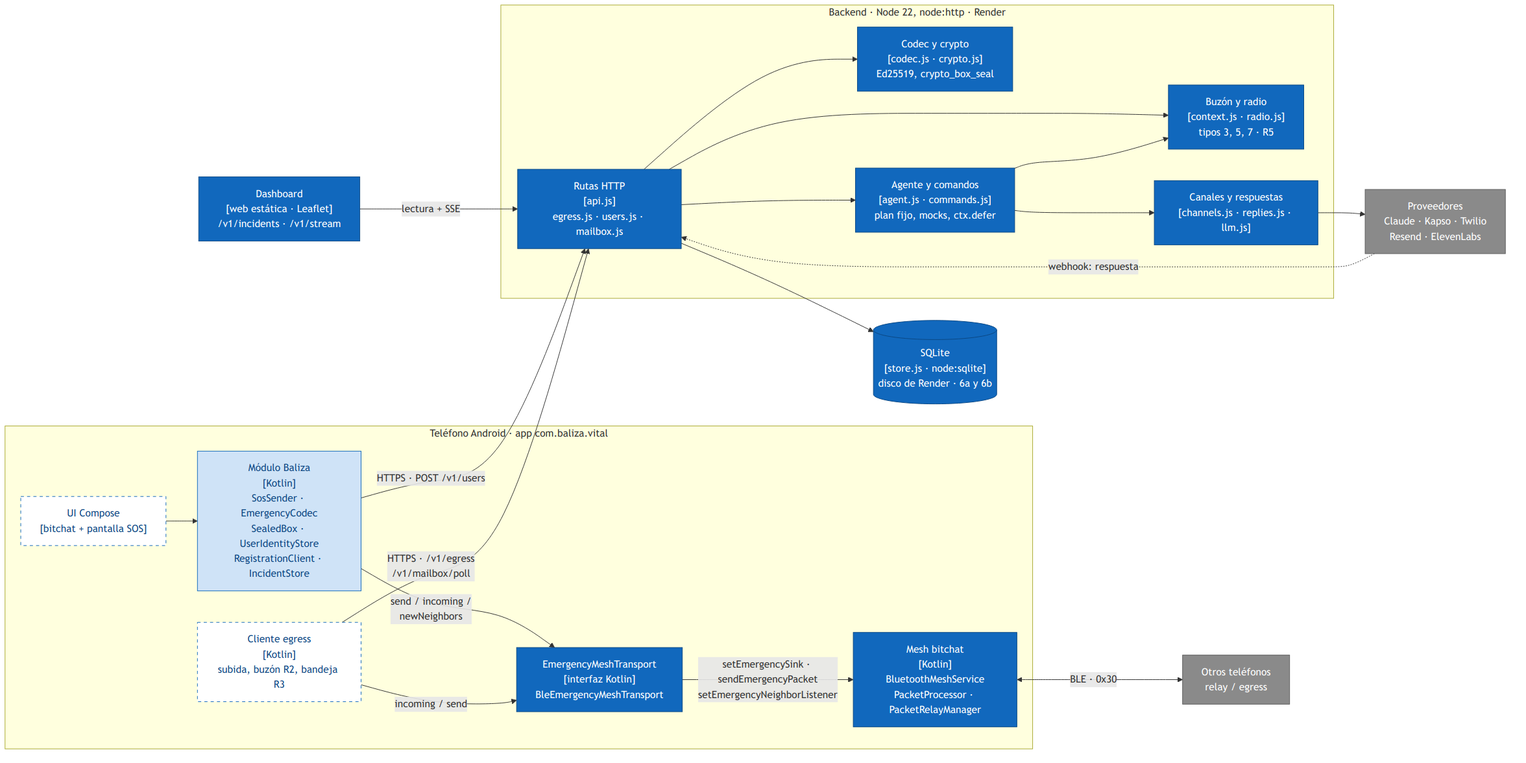
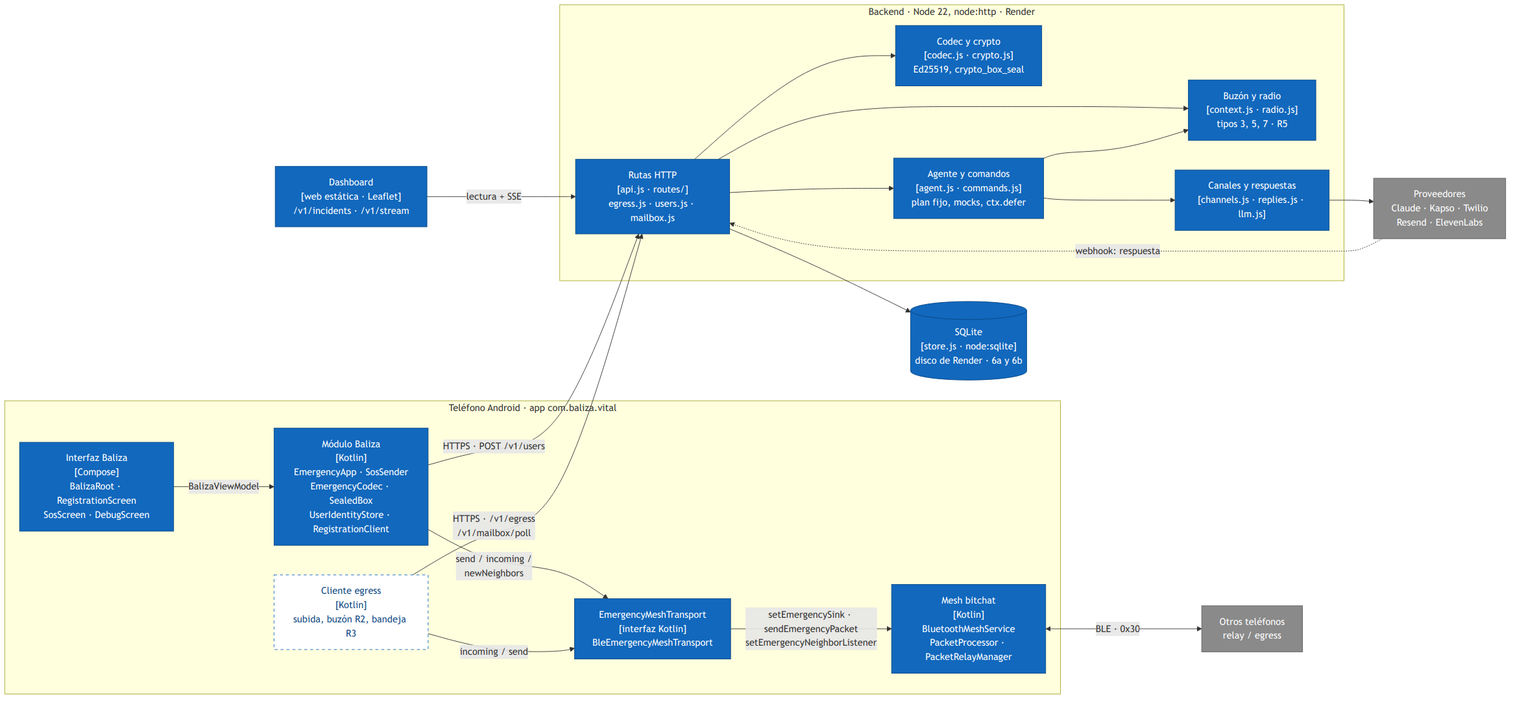
Sync architecture diagrams with main (6f254e6)
Android now has the Baliza interface and SosSender wired through
EmergencyApp; the backend routes moved to routes/ without behavior or
schema changes. Diagrams 1, 2, 3, 7b, 8b and 10 reflect that; the egress
client is still the missing piece.

Claude-Session: https://claude.ai/code/session_01XdXPhFtcDCqmwmPepN8a9W

Changed region(s): [[0.0, 0.0, 0.9932, 0.9991], [0.5276, 0.0, 0.6828, 0.1561], [0.7759, 0.843, 0.869, 0.9366]]

diff --git a/docs/diagramas/02-c4-contenedores.md b/docs/diagramas/02-c4-contenedores.md
@@ -4,30 +4,28 @@ Las piezas desplegables de Baliza Vital y cómo se hablan: la app Android en cap
 `EmergencyMeshTransport`, mesh de bitchat), el backend en módulos, la base de datos y el dashboard.
 Muestra qué existe ya en el código y qué está propuesto.
 
-Estado: **propuesto**. Sincronizado con `431db2d`. Existen el backend (`backend/src/`), el panel
-(`dashboard/`) y, en Android, el transporte, el módulo Baliza (`codec`, `crypto`, `identity`,
-`registration`, `sos`) y los ganchos de bitchat. Faltan la UI SOS, el cliente egress y el cableado en la
-app.
+Estado: **propuesto**. Sincronizado con `6f254e6`. Existen el backend (`backend/src/`), el panel
+(`dashboard/`) y, en Android, la interfaz Baliza (`com.baliza.emergency.ui`), el módulo Baliza cableado en
+`EmergencyApp`, el transporte y los ganchos de bitchat. **Falta el cliente egress.**
 
 ```mermaid
 flowchart LR
   classDef exists fill:#1168bd,stroke:#0b4884,color:#fff
-  classDef partial fill:#cfe3f7,stroke:#1168bd,color:#0b4884
   classDef proposed fill:#fff,stroke:#1168bd,color:#0b4884,stroke-dasharray:5 5
   classDef ext fill:#8a8a8a,stroke:#5e5e5e,color:#fff
 
   otros["Otros teléfonos<br/>relay / egress"]:::ext
 
   subgraph phone["Teléfono Android · app com.baliza.vital"]
-    ui["UI Compose<br/>[bitchat + pantalla SOS]"]:::proposed
-    sos["Módulo Baliza<br/>[Kotlin]<br/>SosSender · EmergencyCodec<br/>SealedBox · UserIdentityStore<br/>RegistrationClient · IncidentStore"]:::partial
+    ui["Interfaz Baliza<br/>[Compose]<br/>BalizaRoot · RegistrationScreen<br/>SosScreen · DebugScreen"]:::exists
+    sos["Módulo Baliza<br/>[Kotlin]<br/>EmergencyApp · SosSender<br/>EmergencyCodec · SealedBox<br/>UserIdentityStore · RegistrationClient"]:::exists
     egr["Cliente egress<br/>[Kotlin]<br/>subida, buzón R2, bandeja R3"]:::proposed
     emt["EmergencyMeshTransport<br/>[interfaz Kotlin]<br/>BleEmergencyMeshTransport"]:::exists
     mesh["Mesh bitchat<br/>[Kotlin]<br/>BluetoothMeshService<br/>PacketProcessor · PacketRelayManager"]:::exists
   end
 
   subgraph cloud["Backend · Node 22, node:http · Render"]
-    api["Rutas HTTP<br/>[api.js]<br/>egress.js · users.js · mailbox.js"]:::exists
+    api["Rutas HTTP<br/>[api.js · routes/]<br/>egress.js · users.js · mailbox.js"]:::exists
     crypto["Codec y crypto<br/>[codec.js · crypto.js]<br/>Ed25519, crypto_box_seal"]:::exists
     ag["Agente y comandos<br/>[agent.js · commands.js]<br/>plan fijo, mocks, ctx.defer"]:::exists
     mb["Buzón y radio<br/>[context.js · radio.js]<br/>tipos 3, 5, 7 · R5"]:::exists
@@ -38,7 +36,7 @@ flowchart LR
   dash["Dashboard<br/>[web estática · Leaflet]<br/>/v1/incidents · /v1/stream"]:::exists
   prov["Proveedores<br/>Claude · Kapso · Twilio<br/>Resend · ElevenLabs"]:::ext
 
-  ui --> sos
+  ui -->|"BalizaViewModel"| sos
   sos -->|"send / incoming /<br/>newNeighbors"| emt
   sos -->|"HTTPS · POST /v1/users"| api
   egr -->|"incoming / send"| emt
@@ -56,42 +54,49 @@ flowchart LR
   dash -->|"lectura + SSE"| api
 ```
 
-Leyenda: relleno azul = existe y se usa; azul claro = existe pero sin conectar a la app; borde
-punteado = propuesto. Todos los módulos del backend usan `store.js`; para no cruzar flechas, solo se
+Leyenda: relleno azul = existe; borde punteado = propuesto. Todos los módulos del backend usan `store.js`; para no cruzar flechas, solo se
 dibuja una hacia la base.
 
 ## Capas de la app
 
 | Capa | Paquete / clase | Responsabilidad | Estado |
 |------|-----------------|-----------------|--------|
-| UI | bitchat Compose + pantalla SOS | Categoría, severidad, texto, estados R4, CMD | Propuesto |
-| Módulo Baliza | `com.baliza.emergency.{codec,crypto,identity,registration,sos}` | `EmergencyCodec` (§3, firma `BALIZA-V1`), `SealedBox` (compatible con libsodium), `UserIdentityStore` (llaves propias y del servidor, `SecurePrefs`), `RegistrationClient` (`POST /v1/users`), `SosSender` (R1, R4, ACK), `PrefsIncidentStore` (sobrevive a la muerte del proceso) | **Existe, sin conectar**. Faltan UPDATE/baliza R6, MSG_OUT, CMD, dictado y lectura en voz alta |
+| UI | `com.baliza.emergency.ui`: `BalizaRoot`, `RegistrationScreen`, `SosScreen`, `DebugScreen`, `BalizaViewModel` | Registro con contactos, botón SOS (categoría, gravedad, texto público ≤ 60 B, nota cifrada, a quién avisar), estado R4 y cancelar. En builds de depuración: URL del servidor, paquete de prueba, paquetes oídos, borrar registro y acceso al chat de bitchat | **Existe**. Reemplaza al chat de bitchat como pantalla de inicio (`MainActivity`). Faltan MSG_IN, CMD, dictado y lectura en voz alta |
+| Pila de emergencia | `com.baliza.emergency.app`: `EmergencyApp` (una por proceso), `ContactStore`, `ApiSettings`, `SosLocationProvider` | Arma transporte, `SosSender` y registro; guarda los contactos cifrados; URL del backend (de la build, `BALIZA_API_URL`, o cambiada en depuración); ubicación para el SOS | **Existe** |
+| Módulo Baliza | `com.baliza.emergency.{codec,crypto,identity,registration,sos}` | `EmergencyCodec` (§3, firma `BALIZA-V1`), `SealedBox` (compatible con libsodium), `UserIdentityStore` (llaves propias y del servidor, `SecurePrefs`), `RegistrationClient` (`POST /v1/users`), `SosSender` (R1, R4, ACK), `PrefsIncidentStore` (sobrevive a la muerte del proceso) | **Existe y se usa**. Faltan UPDATE/baliza R6, MSG_OUT y CMD |
 | Cliente egress | (sin código) | `POST /v1/egress`, `POST /v1/mailbox/poll` (R2), bandeja de salida (R3), presencia e inbox (R5) | Propuesto |
-| Transporte | `EmergencyMeshTransport`, `BleEmergencyMeshTransport` | `send(payload, ttl): SendResult`, `incoming`, `newNeighbors` | **Existe** |
+| Transporte | `EmergencyMeshTransport`, `BleEmergencyMeshTransport` | `send(payload, ttl): SendResult`, `incoming`, `newNeighbors`; `rebind()` si `MeshServiceHolder` cambia la instancia del mesh | **Existe** |
 | Mesh | `BluetoothMeshService.setEmergencySink` / `sendEmergencyPacket` / `setEmergencyNeighborListener`, `PacketProcessor` (rama `EMERGENCY`), `PacketRelayManager` | Sobre v1, BROADCAST, firma del sobre, relevo con TTL − 1, aviso de vecino nuevo | **Existe** |
 
 ## Módulos del backend
 
 | Módulo | Archivo | Rutas o papel |
 |--------|---------|---------------|
-| Rutas | `api.js`, `http.js`, `server.js` | Ensamblado, CORS, tokens de panel y admin |
-| Registro | `users.js` | `POST /v1/users`, `PUT /v1/users/{id}/contacts` |
-| Egress | `egress.js` | `POST /v1/egress` (validación, idempotencia, ACK síncrono) |
-| Buzón | `mailbox.js`, `context.js` | `POST /v1/mailbox/poll`; `queueAck`, `queueMsgIn`, `queueCmdResult` |
-| Radio (R5) | `radio.js` | `POST /v1/egress/presence`, `GET /v1/egress/inbox`, repetición cada 60 s |
+| Ensamblado | `api.js`, `http.js`, `server.js` | Contexto y servidor HTTP, CORS |
+| Rutas | `routes/{index,helpers,users,mesh,replies,admin,dashboard}.js` | Tabla de rutas por tema; tokens de panel y admin en `helpers.js` |
+| Registro | `users.js` (rutas en `routes/users.js`) | `POST /v1/users`, `PUT /v1/users/{id}/contacts` |
+| Egress | `egress.js` (rutas en `routes/mesh.js`) | `POST /v1/egress` (validación, idempotencia, ACK síncrono) |
+| Buzón | `mailbox.js`, `context.js` (rutas en `routes/mesh.js`) | `POST /v1/mailbox/poll`; `queueAck`, `queueMsgIn`, `queueCmdResult` |
+| Radio (R5) | `radio.js` (rutas en `routes/mesh.js`) | `POST /v1/egress/presence`, `GET /v1/egress/inbox`, repetición cada 60 s |
 | Agente | `agent.js`, `llm.js`, `prompts/alert-writer.txt` | `registrar_incidente`, `avisar_contactos`, `consultar_alertas`, `runSosAgent` |
 | Comandos | `commands.js` | CMD → CMD_RESULT con mocks y banderas |
-| Respuestas | `replies.js`, `tokens.js`, `reply-page.html` | `/r/{token}`, `/v1/replies`, `/v1/webhooks/whatsapp`, `/v1/webhooks/sms` |
+| Respuestas | `replies.js`, `tokens.js`, `reply-page.html` (rutas en `routes/replies.js`) | `/r/{token}`, `/v1/replies`, `/v1/webhooks/whatsapp`, `/v1/webhooks/sms` |
+| Admin | `routes/admin.js` | `POST /v1/admin/contacts/verify`, `POST /v1/dev/simulate-reply` |
 | Canales | `channels.js` | WhatsApp (Kapso), SMS (Twilio), correo (Resend), voz (ElevenLabs) o consola |
-| Panel | `api.js` | `GET /v1/incidents`, `/v1/incidents/{sender}/{incident}`, `/v1/events`, `/v1/stream` (SSE) |
+| Panel | `routes/dashboard.js` | `GET /v1/incidents`, `/v1/incidents/{sender}/{incident}`, `/v1/events`, `/v1/stream` (SSE) |
 | Datos | `store.js` | Todo el SQL (diagramas 6a y 6b) |
 
 ## Supuestos / decisiones abiertas
 
-- **Cableado pendiente en Android.** Nadie llama todavía a `BleEmergencyMeshTransport.over(mesh)` ni crea
-  un `SosSender`: el módulo Baliza solo corre en pruebas. Es lo que falta para la Fase 2 en el teléfono.
-- **No hay cliente egress.** Ningún código del teléfono llama a `/v1/egress` ni a `/v1/mailbox/poll`. El
-  backend se prueba con `scripts/post-vector.mjs`.
+- **No hay cliente egress: es lo que falta para la Fase 2 en el teléfono.** El SOS ya sale de A por el
+  mesh, pero ningún código del teléfono llama a `/v1/egress` ni a `/v1/mailbox/poll`, así que nada llega
+  al backend desde el mesh. El backend se prueba con `scripts/post-vector.mjs`.
+- **`EmergencyApp` vive fuera de las pantallas.** Una instancia por proceso arma la pila al arrancar
+  (fuera del hilo principal, por el keystore) y la UI solo la observa, para que los reintentos R1 no
+  dependan de una pantalla abierta. Cada 5 s comprueba si `MeshServiceHolder` cambió el mesh y, si es
+  así, vuelve a enganchar el transporte (`rebind()`).
+- **El chat de bitchat sigue debajo.** Su motor de mesh corre igual; la pantalla de chat solo se abre
+  desde el panel de depuración.
 - **El agente no es un worker aparte.** `ctx.defer` corre en el mismo proceso, después de responder al
   egress. Si el proceso se reinicia, el aviso en curso se pierde (el `SIGTERM` espera 10 s).
 - **Una sola instancia.** El límite de tasa, la cola diferida y el bus del SSE viven en memoria, y el

diff --git a/docs/diagramas/README.md b/docs/diagramas/README.md
@@ -28,10 +28,13 @@ Los diagramas que pasaban de ~15 elementos se dividieron en partes (a, b, c).
 | 9c | [Paquete: sobre de bitchat](09c-paquete-sobre-bitchat.md) | propuesto (calcado del código) | [09c](img/09c-paquete-sobre-bitchat.png) |
 | 10 | [Despliegue del demo](10-despliegue-demo.md) | propuesto | [10](img/10-despliegue-demo.png) |
 
-Los "propuesto" a secas mezclan código real (backend, `SosSender`) con piezas que no existen todavía
-(cliente egress, UI, UPDATE, MSG_OUT, CMD en el teléfono). Cada diagrama marca cuál es cuál.
+Los "propuesto" a secas mezclan código real (backend, interfaz y `SosSender` en el teléfono) con piezas
+que no existen todavía (cliente egress, UPDATE, MSG_OUT, CMD en el teléfono). Cada diagrama marca cuál es
+cuál.
 
-Última sincronización: `431db2d` (`main`, 2026-10-24). La anterior fue `8e2b1e1`.
+Última sincronización: `6f254e6` (`main`, 2026-10-24). La anterior fue `431db2d`. Desde entonces: la
+interfaz Baliza en Android con `SosSender` cableado (`EmergencyApp`), y el backend partido en `routes/`
+sin cambios de comportamiento ni de esquema.
 
 ## Decisiones
 
@@ -61,7 +64,7 @@ Los "propuesto" a secas mezclan código real (backend, `SosSender`) con piezas q
 | 9 | API del dashboard fuera del contrato | 2 | Resuelto en código | `GET /v1/incidents`, `/v1/incidents/{sender}/{incident}`, `/v1/events`, SSE `/v1/stream`; solo lectura, sin `PATCH`. Falta pasarla al contrato |
 | 10 | Por dónde responde el contacto | 4 | Resuelto en código | Webhook de Kapso, `/r/{token}`, `/v1/replies`, webhook SMS de Twilio |
 | 11 | ¿El `CMD` pasa por el LLM? | 5 | Resuelto en código | No: despacho en código con esquema estricto; el LLM solo redacta avisos |
-| 12 | "Laptop como egress de respaldo": una laptop no corre bitchat | 10 | **Abierto** | La laptop respalda red (hotspot) y backend (copia local con las mismas llaves); un 4.º teléfono si se quiere un egress real |
+| 12 | "Laptop como egress de respaldo": una laptop no corre bitchat | 10 | **Abierto** | La laptop respalda red (hotspot) y backend (copia local con las mismas llaves; el teléfono ya puede apuntarle desde `DebugScreen`); un 4.º teléfono si se quiere un egress real |
 | 13 | Margen del frame: §2 dice "margen de 6 B" y §2.1 suma 512 exactos. Con compresión, 418 B pueden pasar a 419 B y el sobre a 513 B (se fragmenta) | 9c | **Abierto** | Bajar el límite del paquete interno a 412 B, o aceptar la fragmentación y agregar ese borde a `EmergencyPacketTest` |
 | 14 | Base de datos: el encargo pedía Postgres + PostGIS (y `reparto.md` lo proponía); el código usa SQLite (`node:sqlite`) en el disco de Render, sin PostGIS | 2, 6a, 6b, 10 | **Abierto** | SQLite para el demo; Postgres solo si hace falta más de una réplica (`store.js` es el único punto de cambio). Los ER muestran lo real |
 | 15 | WhatsApp: el bit «sms» de `channels` sale por WhatsApp (Kapso) si hay credenciales; el contrato (§3.3, §6) solo habla de SMS | 1, 4 | **Abierto** | Documentar en §6 que «sms» significa "mensaje al teléfono del contacto" (WhatsApp o SMS) |
@@ -70,8 +73,10 @@ Los "propuesto" a secas mezclan código real (backend, `SosSender`) con piezas q
 - La ubicación exacta viaja **en claro** en la cabecera y la ve cualquier nodo del mesh (9b).
 - Un egress no puede verificar la firma del usuario (no tiene la llave pública) y sube todo lo que
   decodifica; filtra el backend (7b).
-- El módulo Baliza de Android **no está conectado a la app**: nadie llama a
-  `BleEmergencyMeshTransport.over` ni crea un `SosSender`. Y no hay cliente egress (2).
+- **No hay cliente egress en Android** (2, 3, 10). El SOS ya sale de A y salta por el mesh, pero no
+  llega al backend: es la pieza que falta para que el demo A → B → C → backend funcione.
+- "Cancelar aviso" solo detiene los reintentos en el teléfono; el incidente queda `open` en el panel
+  hasta que exista el UPDATE con `severity = 0` (8b).
 - La nota del SOS queda **en claro** en la base del backend, sin plazo de retención (6a).
 - Con canales reales, solo reciben avisos los contactos `verified` (10).
 
@@ -95,9 +100,9 @@ done
 
 Cuando se pida "sincroniza": `git fetch`, y `git log` y `git diff` desde la última sincronización (arriba)
 hasta `main`, sobre:
-- Android: `apps/android/.../com/baliza/**`, `PacketProcessor`, `PacketRelayManager`, `SecurityManager`,
-  `BluetoothMeshService`, `BinaryProtocol`;
-- backend: `backend/src/**` (sobre todo `store.js`, `egress.js`, `agent.js`, `context.js`, `api.js`) y
+- Android: `apps/android/.../com/baliza/**` (incluye `app/` y `ui/`), `MainActivity`, `PacketProcessor`,
+  `PacketRelayManager`, `SecurityManager`, `BluetoothMeshService`, `BinaryProtocol`;
+- backend: `backend/src/**` (sobre todo `store.js`, `egress.js`, `agent.js`, `context.js`, `routes/`) y
   `backend/README.md`;
 - panel: `dashboard/app.js`;
 - despliegue: `render.yaml`;
@@ -108,5 +113,5 @@ sincronización. Qué mirar según el cambio:
 - bitchat: 2, 3, 7a y 9c;
 - `store.js`: 6a y 6b;
 - `egress.js`, `agent.js`, `commands.js`: 3, 4, 5 y 8a;
-- `SosSender`: 3, 7b y 8b;
+- `SosSender`, `EmergencyApp`, `ui/`: 2, 3, 7b y 8b;
 - `render.yaml`: 10.

diff --git a/docs/diagramas/10-despliegue-demo.md b/docs/diagramas/10-despliegue-demo.md
@@ -4,7 +4,7 @@ Dónde corre cada pieza el día del demo: tres teléfonos Android (A sin interne
 separados para forzar un salto, una laptop de respaldo, el backend y el panel en Render, y el panel
 proyectado. Los avisos llegan a teléfonos del equipo (datos sintéticos).
 
-Estado: **propuesto**, sincronizado con `431db2d`. El papel de la laptop está **por confirmar**.
+Estado: **propuesto**, sincronizado con `6f254e6`. El papel de la laptop está **por confirmar**.
 Fuentes: `render.yaml`, `backend/README.md`, `dashboard/README.md`, `fases.md` y `reparto.md`.
 
 ```mermaid
@@ -53,7 +53,7 @@ flowchart LR
 |-------|---------------|
 | A | Modo avión con Bluetooth encendido; ubicación activada (GPS sin red); registrado antes con internet (`POST /v1/users`) para tener las llaves del servidor |
 | B | Sin SIM o sin datos, Bluetooth encendido, app abierta; en el medio, a la vista de A y de C |
-| C | Datos móviles, "colaborar como egress" activo; lejos de A para que el salto pase por B |
+| C | Datos móviles, "colaborar como egress" activo (**no existe todavía**); lejos de A para que el salto pase por B |
 | Laptop | Panel abierto con `?api=https://<backend>` y `DASHBOARD_TOKEN`; hotspot listo; copia local del backend lista para arrancar |
 | Render | `BALIZA_SIGN_SEED_HEX` y `BALIZA_SEAL_SK_HEX` fijados. Si se regeneran las llaves, los teléfonos registrados dejan de entender al servidor |
 | Render | `ADMIN_TOKEN` (para verificar contactos y simular respuestas) y `DASHBOARD_TOKEN` definidos |
@@ -68,7 +68,8 @@ flowchart LR
   dos niveles, sin código extra:
   1. **Red:** comparte internet a C (hotspot) si falla el 4G del lugar.
   2. **Backend:** corre `npm start` en `backend/` y el panel con `python3 -m http.server`, y C apunta a
-     ella si Render falla. Ojo: la copia local tiene **otras llaves** salvo que use las mismas
+     ella si Render falla. Ya se puede sin recompilar: en builds de depuración, `DebugScreen` cambia la
+     URL del servidor (`ApiSettings`). Ojo: la copia local tiene **otras llaves** salvo que use las mismas
      `BALIZA_SIGN_SEED_HEX` y `BALIZA_SEAL_SK_HEX`, y otros usuarios registrados.
 
   Alternativa con código: un cuarto teléfono Android como egress de reserva. Si "egress" se refería a
@@ -82,5 +83,8 @@ flowchart LR
   canales reales, el ACK dice `[SIMULADO]` y el panel marca `simulado`: no se presenta como aviso real.
 - **Llamada con voz IA** no probada contra la API real (`backend/README.md`). Conviene probarla antes o
   sacarla del guion.
-- **Falta en el teléfono** lo que hace funcionar este despliegue: la UI SOS, el cableado de
-  `SosSender` y el cliente egress de C (diagrama 2).
+- **Falta en el teléfono** lo que hace funcionar este despliegue: el cliente egress de C (diagrama 2).
+  La UI SOS y el cableado de `SosSender` ya existen. Mientras tanto, A → B se puede mostrar con
+  "Enviar prueba" del panel de depuración, que hace aparecer los saltos en "Paquetes oídos" de B y C.
+- **Registro antes del demo.** A se registra con internet desde `RegistrationScreen`; si falla, los
+  contactos quedan guardados en el teléfono y se reintenta.

diff --git a/docs/diagramas/01-c4-contexto.md b/docs/diagramas/01-c4-contexto.md
@@ -3,7 +3,7 @@
 Quién usa Baliza Vital y con qué sistemas externos habla. El mesh BLE lleva el paquete del
 teléfono sin internet hasta un egress, y el backend, junto al agente IA, avisa a los contactos y responde por el mismo camino.
 
-Estado: **propuesto**. Sincronizado con `431db2d`: los proveedores son los que usa
+Estado: **propuesto**. Sincronizado con `6f254e6`: los proveedores son los que usa
 `backend/src/channels.js` y `llm.js`. Fuentes: `CLAUDE.md`, `docs/contrato.md` §1, §4–§7,
 `backend/README.md`.
 
@@ -57,9 +57,9 @@ flowchart LR
 
 | Elemento | Nombre real en el repo | Estado |
 |----------|------------------------|--------|
-| App en los tres papeles (origen, relay, egress) | `apps/android`, paquete `com.baliza.emergency` | Existen transporte, codec, sellado, identidad, registro y `SosSender`; **sin conectar a la app**. El papel de egress no tiene código |
+| App en los tres papeles (origen, relay, egress) | `apps/android`, paquete `com.baliza.emergency` | Existen la interfaz (registro y SOS) y el módulo Baliza cableado en `EmergencyApp`: origen y relay funcionan. **El papel de egress no tiene código** |
 | Mesh BLE | bitchat: `BluetoothMeshService`, `PacketProcessor`, `MessageType.EMERGENCY = 0x30` | Existe |
-| Backend (con el agente dentro) | `backend/src/` (`api.js`, `egress.js`, `agent.js`, …) | **Existe** (112 pruebas) |
+| Backend (con el agente dentro) | `backend/src/` (`api.js`, `routes/`, `egress.js`, `agent.js`, …) | **Existe** (132 pruebas) |
 | Panel | `dashboard/` (Leaflet, SSE) | **Existe** |
 | Proveedores | `backend/src/channels.js`, `llm.js` | Integrados; sin credenciales caen a `simulated` |
 

diff --git a/docs/diagramas/09c-paquete-sobre-bitchat.md b/docs/diagramas/09c-paquete-sobre-bitchat.md
@@ -4,7 +4,7 @@ Cómo viaja el paquete interno por el mesh: como `payload` de un `BitchatPacket`
 `EMERGENCY = 0x30`, con `recipientID = BROADCAST` y firmado con la identidad de bitchat del emisor
 del sobre. El total cabe en un solo frame BLE de 512 B, sin fragmentar.
 
-Estado: **propuesto (calcado del código)**; pasa a validado cuando lo revises. Revisado contra `431db2d`
+Estado: **propuesto (calcado del código)**; pasa a validado cuando lo revises. Revisado contra `6f254e6`
 (sin cambios). Coincide con:
 `BinaryProtocol` (`HEADER_SIZE_V1 = 14`, `Flags`), `BluetoothMeshService.sendEmergencyPacket` y la
 prueba de 418 B en `EmergencyPacketTest`. Fuente: `contrato.md` §2 y §2.1.
@@ -58,7 +58,7 @@ Leyenda: azul = campos de bitchat (no se tocan); verde = lo nuestro; gris oscuro
   (`compress`), y añade un campo de 2 B. Un payload de 418 B que comprima a 417 B pasa a 419 B, y el
   sobre a 513 B: **se fragmenta**. El contrato (§2) dice "peor caso +1 B; se deja margen de 6 B",
   pero la cuenta de §2.1 da 512 exactos, sin margen. `EmergencyPacketTest` prueba lo aleatorio (no
-  comprime) y el relleno (comprime mucho), pero no este borde. Sigue igual en `431db2d`. Ver el punto 13 en `README.md`.
+  comprime) y el relleno (comprime mucho), pero no este borde. Sigue igual en `6f254e6`. Ver el punto 13 en `README.md`.
 - **El egress reinyecta un ACK con su propio sobre:** el `senderID` del sobre es el egress, no el
   servidor. Por eso el teléfono confía en la firma interna, nunca en el sobre.
 - **Fragmentación:** permitida como contingencia, pero ningún tipo la necesita si se respeta el límite

diff --git a/docs/diagramas/03-secuencia-sos.md b/docs/diagramas/03-secuencia-sos.md
@@ -4,15 +4,15 @@ Recorrido completo de un SOS: A (sin internet), luego B (relay), luego C (egress
 después, el ACK firmado por el servidor vuelve por el mesh hasta A. Incluye los reintentos (R1) y la
 recogida del ACK de avance por el buzón (R2).
 
-Estado: **propuesto**, sincronizado con `431db2d`. Existen y tienen pruebas: `SosSender` en A (sin
-conectar a la app), el relevo en B y todo el backend. **No existe el cliente egress de C**: subir a
+Estado: **propuesto**, sincronizado con `6f254e6`. Existen y tienen pruebas: en A, el botón SOS
+(`SosScreen`) y `SosSender`, cableado en `EmergencyApp`; el relevo en B y todo el backend. **No existe el cliente egress de C**: subir a
 `/v1/egress`, reinyectar y consultar el buzón siguen propuestos. Fuentes: `SosSender.kt`,
 `egress.js`, `agent.js`, `context.js`; `contrato.md` §3, §4, §5.1 y §7.
 
 ```mermaid
 sequenceDiagram
   autonumber
-  participant A as A · origen<br/>SosSender
+  participant A as A · origen<br/>SosScreen · SosSender
   participant B as B · relay<br/>PacketProcessor
   participant C as C · egress<br/>(cliente propuesto)
   participant API as Backend<br/>egress.js
@@ -20,6 +20,7 @@ sequenceDiagram
   participant AG as Agente<br/>agent.js
   participant MB as Buzón<br/>/v1/mailbox/poll
 
+  Note over A: botón SOS → EmergencyApp.startSos<br/>ubicación de SosLocationProvider
   Note over A: start(): SOS seq=1, blob SealedBox.seal a server.seal_pk<br/>EmergencyCodec.sign "BALIZA-V1" · PrefsIncidentStore.save
   Note over A: transport.send(wire, 7) → sendEmergencyPacket<br/>sobre v1, BROADCAST (≤ 512 B)
 

diff --git a/docs/diagramas/08b-estados-sos-telefono.md b/docs/diagramas/08b-estados-sos-telefono.md
@@ -3,8 +3,8 @@
 Lo que la app puede decirle al usuario sobre su SOS (`SosState`) y qué evento produce cada
 transición. La UI nunca muestra "recibido" ni "avisados" sin un ACK firmado por el servidor.
 
-Estado: **propuesto (calcado del código)**, sincronizado con `431db2d`. Fuentes: `SosModels.kt`
-(`SosState`, `RetrySchedule`), `SosSender.kt`; `contrato.md` §5.1 (R1 y R4).
+Estado: **propuesto (calcado del código)**, sincronizado con `6f254e6`. Fuentes: `SosModels.kt`
+(`SosState`, `RetrySchedule`), `SosSender.kt`, `SosScreen.kt`; `contrato.md` §5.1 (R1 y R4).
 
 ```mermaid
 stateDiagram-v2
@@ -54,7 +54,9 @@ stateDiagram-v2
   flechas de `SENT`, `UNCONFIRMED` y `STOPPED` y omite las de `UNSENT` para no saturar.
 - **Sobrevive a la muerte del proceso.** `PrefsIncidentStore` guarda el paquete y el último estado de
   ACK; `resume()` vuelve a `UNSENT` con una ventana nueva o al estado de ACK guardado.
-- **`cancel()` no avisa al servidor.** Cerrar el incidente es un UPDATE con `severity = 0` (R6), que el
-  teléfono todavía no envía.
+- **`cancel()` no avisa al servidor.** Lo llama el botón "Cancelar aviso" de `SosScreen`, que advierte
+  "Dejaré de reenviarlo. Si ya llegó a tus contactos, no se puede deshacer". Cerrar el incidente en el
+  servidor sería un UPDATE con `severity = 0` (R6), que el teléfono todavía no envía: el incidente queda
+  `open` en el panel.
 - **Un incidente a la vez.** `start()` devuelve `AlreadyActive` si hay otro en curso, y `NotRegistered`
   si no hay llaves del servidor (falta `POST /v1/users`).

diff --git a/docs/diagramas/07b-flujo-nodo-baliza.md b/docs/diagramas/07b-flujo-nodo-baliza.md
@@ -4,8 +4,8 @@ La segunda capa de la decisión: lo que hace la app con cada `ReceivedEmergencyP
 `EmergencyMeshTransport.incoming`. Decide si entrega el paquete localmente (es para mí), lo sube (soy
 egress) o no hace nada. El reenvío ya lo hizo bitchat en paralelo ([07a](07a-flujo-nodo-bitchat.md)).
 
-Estado: **propuesto**, sincronizado con `431db2d`. La rama de entrega local de un **ACK** existe en
-`SosSender.onReceived` (en azul). La entrega de MSG_IN y CMD_RESULT y toda la rama de egress no
+Estado: **propuesto**, sincronizado con `6f254e6`. La rama de entrega local de un **ACK** existe en
+`SosSender.onReceived` (en azul) y ya corre en la app (`EmergencyApp`). La entrega de MSG_IN y CMD_RESULT y toda la rama de egress no
 existen. Fuentes: `SosSender.kt`; `contrato.md` §3.2, §3.4, §4 y §5.1 (R2, R3, R4).
 
 ```mermaid
@@ -52,5 +52,8 @@ también son propuestas.
   consultando el buzón. En el diagrama, la rama "ya subido" termina en "ignorar" para no cruzar
   flechas; la implementación debe refrescar la marca de "oído".
 - **Hoy solo hay un incidente a la vez** (`StartResult.AlreadyActive`), y `SosSender` solo escucha ACK.
+- **Un segundo oyente, solo de depuración.** `EmergencyApp` también recoge cada paquete de `incoming`
+  para la lista "Paquetes oídos" (tipo, `incident_id`, saltos, `envelopeTtl`). No decide nada; no se
+  dibuja.
 - **Sin TTL en esta capa.** El `ttl` interno solo mide saltos y no está firmado (§3.2).
 - **Sin lista blanca del modo demo** (D-2, quitada con tu aprobación).

diff --git a/docs/diagramas/09b-paquete-cuerpo-firma.md b/docs/diagramas/09b-paquete-cuerpo-firma.md
@@ -4,7 +4,7 @@ Lo que sigue a la cabecera de 39 B ([09a](09a-paquete-cabecera.md)): texto públ
 firma Ed25519. Muestra qué ven los nodos del mesh (en claro), qué solo abre el destinatario
 (sellado) y qué cubre la firma. Abajo, el contenido del plaintext sellado de un SOS o un UPDATE.
 
-Estado: **propuesto (calcado del código)**, revisado contra `431db2d`. Coincide con `EmergencyCodec`
+Estado: **propuesto (calcado del código)**, revisado contra `6f254e6`. Coincide con `EmergencyCodec`
 (firma sobre `"BALIZA-V1"` ‖ bytes sin `ttl`), `SealedBox.kt` y `backend/src/crypto.js`; la
 compatibilidad con libsodium está probada con `docs/examples/sealedbox-vectors.json`. Fuente:
 `contrato.md` §2.1, §3.1, §3.3 y §3.5.

diff --git a/docs/diagramas/04-secuencia-blast-respuesta.md b/docs/diagramas/04-secuencia-blast-respuesta.md
@@ -4,7 +4,7 @@ Qué pasa después del SOS (diagrama 3): el agente avisa a los contactos por Wha
 llamada con voz IA. El teléfono recibe el ACK de avance, y la respuesta de un familiar vuelve sellada al
 teléfono sin internet a través del buzón y el mesh, donde se lee en voz alta.
 
-Estado: **propuesto**, sincronizado con `431db2d`. El lado del backend existe (`agent.js`,
+Estado: **propuesto**, sincronizado con `6f254e6`. El lado del backend existe (`agent.js`,
 `channels.js`, `replies.js`, `radio.js`). En el teléfono faltan el cliente egress (C), la apertura del
 MSG_IN, la lectura en voz alta y la baliza UPDATE (R6). Fuentes: `backend/README.md`; `contrato.md`
 §3.3, §5, §5.1 (R2, R5, R6), §6 y §7.

diff --git a/docs/diagramas/07a-flujo-nodo-bitchat.md b/docs/diagramas/07a-flujo-nodo-bitchat.md
@@ -5,7 +5,7 @@ deduplicación, firma del sobre, entrega al sumidero y relevo con TTL. Ocurre ig
 nodos (origen, relay o egress). La capa de Baliza, que decide si subir o entregar localmente, está en
 [07b](07b-flujo-nodo-baliza.md).
 
-Estado: **propuesto (calcado del código)**; pasa a validado cuando lo revises. Revisado contra `431db2d`
+Estado: **propuesto (calcado del código)**; pasa a validado cuando lo revises. Revisado contra `6f254e6`
 (sin cambios en este flujo; solo se agregó el aviso de vecino nuevo en `onDeviceConnected`). Está
 dibujado sobre `PacketProcessor.handleReceivedPacket`, `SecurityManager.validatePacket` y
 `PacketRelayManager.handlePacketRelay` / `shouldRelayPacket`.

diff --git a/docs/diagramas/05-secuencia-comando.md b/docs/diagramas/05-secuencia-comando.md
@@ -4,7 +4,7 @@ Un `CMD` firmado por el usuario viaja por el mesh como cualquier paquete. El bac
 bandera de la función, la idempotencia y los topes diarios, ejecuta un **mock** y deja un `CMD_RESULT`
 sellado al usuario en el buzón. Nada toca bancos ni plataformas reales.
 
-Estado: **propuesto**, sincronizado con `431db2d`. El backend existe (`egress.js` → `processCmd`,
+Estado: **propuesto**, sincronizado con `6f254e6`. El backend existe (`egress.js` → `processCmd`,
 `commands.js`); en el teléfono no hay código de CMD ni cliente egress. Fases 4 y 5, detrás de
 `FEATURE_PAYMENTS` y `FEATURE_RIDES` (apagadas por defecto). Fuentes: `contrato.md` §3.3, §7 y §8.
 
